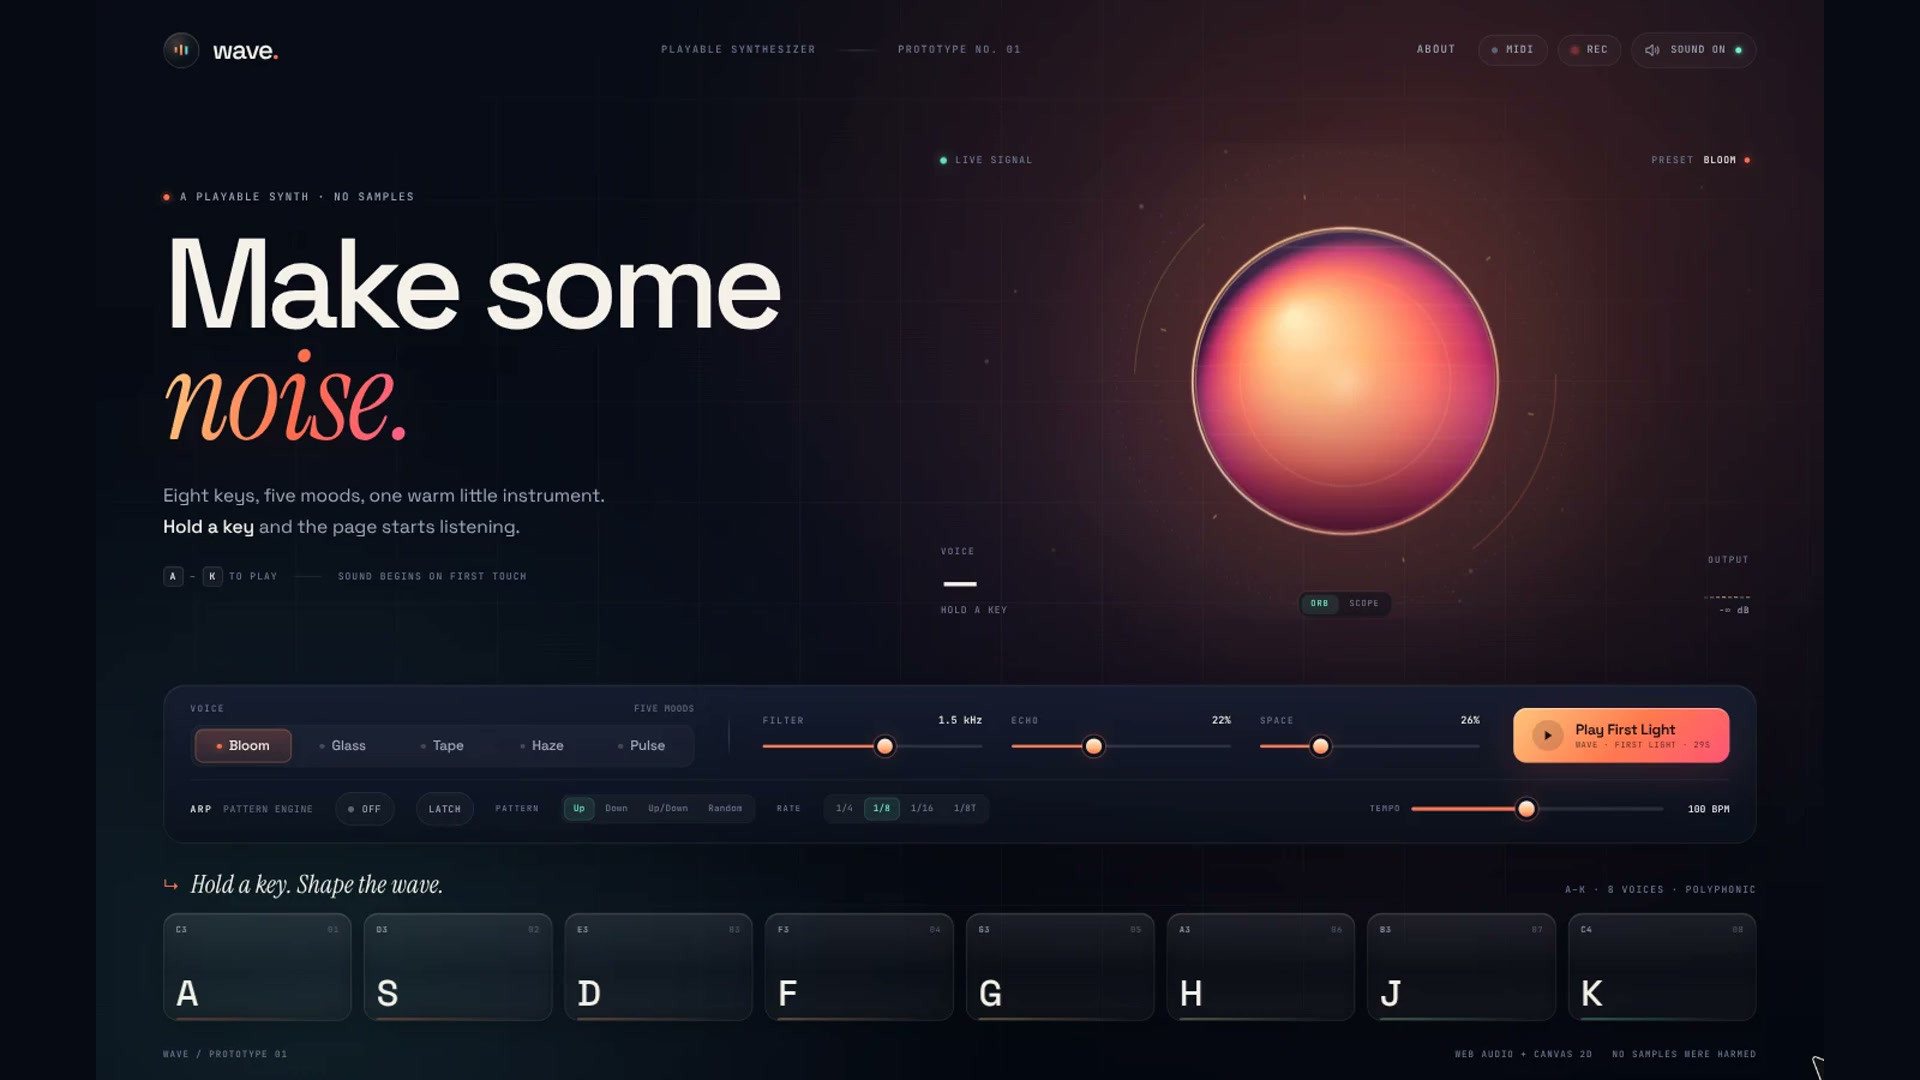
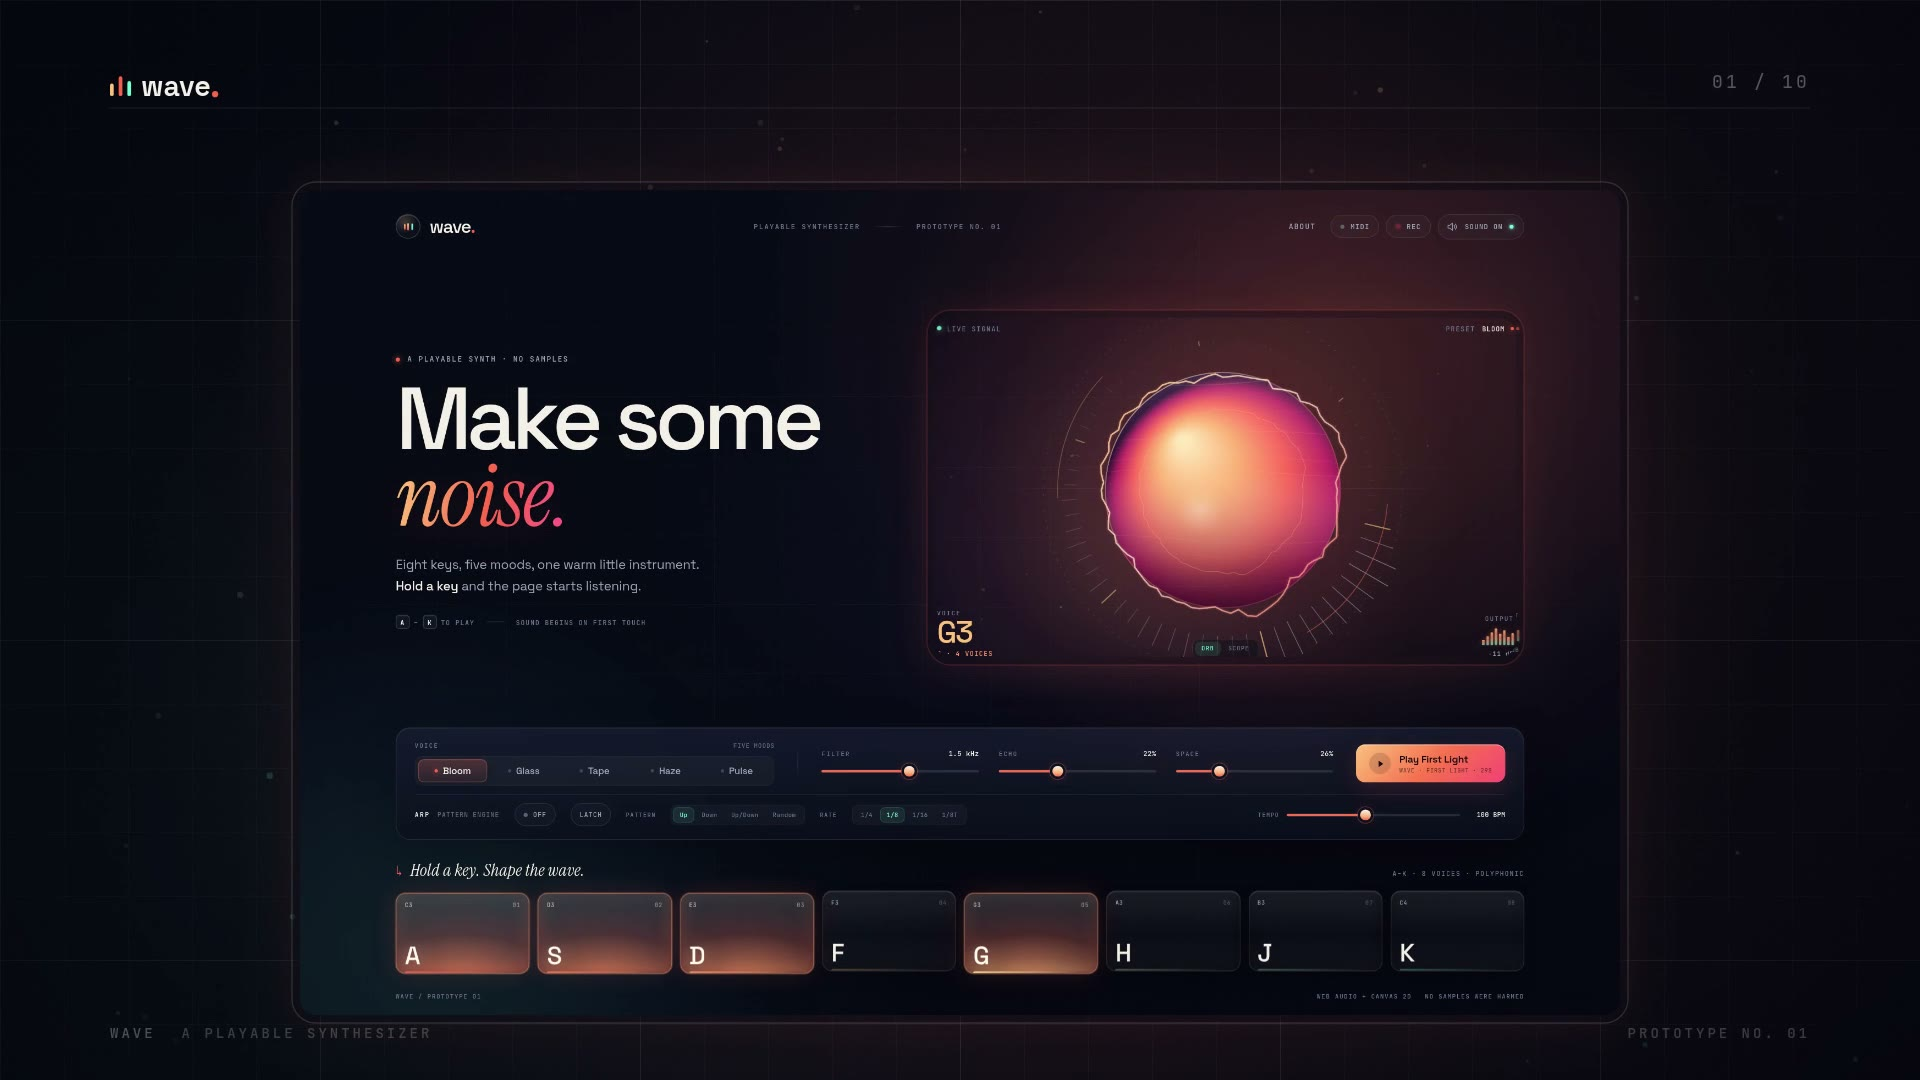
docs: switch the explainer to Kokoro af_heart

diff --git a/docs/explainer/script.md b/docs/explainer/script.md
@@ -1,6 +1,6 @@
 # Wave: the playable synth, explained
 
-A 3:15 animated explainer for the Wave prototype. 1920 × 1080, 30 fps,
+A 3:20 animated explainer for the Wave prototype. 1920 × 1080, 30 fps,
 stereo.
 
 - **Watch:** the inline player in the [repository README](../../README.md)
@@ -19,15 +19,15 @@ a single idea carried from start to finish.
 | Time | Chapter | On screen |
 | --- | --- | --- |
 | 0:01 | Cold open | The wordmark, three claims, then the live page. The stage lifts out of the page as a match cut. |
-| 0:22 | The signal | Two crossed-out cards (a video loop, a fake spectrum) give way to the real stage and a live analyser trace. |
-| 0:39 | One voice | The A key, three oscillators converging on one voice, the ADSR envelope, and eight voice meters. |
-| 1:04 | The shared chain | Voice to bus to filter to soft clip, compressor, analyser, mute and out. Delay and reverb sit in a send rack. |
-| 1:28 | The quiet trick | The mute switch sits after the analyser. The speakers go silent, the stage keeps breathing. |
-| 1:43 | Two views | Waveform ring, spectrum ticks, and three springs settling under the actual stage. |
-| 2:05 | The clock | Arp steps, a 120 ms lookahead window, a magnified scheduler, and the real timeout constants. |
-| 2:21 | First Light is data | Every note event in the cue, the filter ride, and the moment the player takes the filter back. |
-| 2:37 | Five moods | Five orbs, one engine, five motion signatures: breathes, shimmers, drags, drifts, snaps. |
-| 2:55 | A small instrument | The numbers, the stack, and the end card. |
+| 0:23 | The signal | Two crossed-out cards (a video loop, a fake spectrum) give way to the real stage and a live analyser trace. |
+| 0:42 | One voice | The A key, three oscillators converging on one voice, the ADSR envelope, and eight voice meters. |
+| 1:08 | The shared chain | Voice to bus to filter to soft clip, compressor, analyser, mute and out. Delay and reverb sit in a send rack. |
+| 1:32 | The quiet trick | The mute switch sits after the analyser. The speakers go silent, the stage keeps breathing. |
+| 1:48 | Two views | Waveform ring, spectrum ticks, and three springs settling under the actual stage. |
+| 2:09 | The clock | Arp steps, a 120 ms lookahead window, a magnified scheduler, and the real timeout constants. |
+| 2:27 | First Light is data | Every note event in the cue, the filter ride, and the moment the player takes the filter back. |
+| 2:43 | Five moods | Five orbs, one engine, five motion signatures: breathes, shimmers, drags, drifts, snaps. |
+| 3:00 | A small instrument | The numbers, the stack, and the end card. |
 
 ## Narration
 
@@ -38,14 +38,14 @@ a single idea carried from start to finish.
 > a synthesizer that lives entirely in the browser. And everything you're about
 > to see is drawn from the sound it makes.
 
-### 0:22 · The signal
+### 0:23 · The signal
 
 > There is no waveform video playing on a loop. No pre-rendered spectrum. The
 > orb on the stage is reading the actual audio signal, sixty times a second,
 > and painting what it finds. The page isn't illustrating sound. It's listening
 > to it.
 
-### 0:39 · One voice
+### 0:42 · One voice
 
 > Follow one key press. You hold the A key, and a voice wakes up. Three
 > oscillators: a saw, a triangle, a sine, tuned slightly apart so they shimmer
@@ -53,7 +53,7 @@ a single idea carried from start to finish.
 > sustain, and a long release when you let go. Eight voices like this one can
 > run at once.
 
-### 1:04 · The shared chain
+### 1:08 · The shared chain
 
 > They all feed one shared chain. A resonant low-pass filter. A stereo
 > ping-pong delay, and a convolution reverb built from a generated impulse
@@ -61,38 +61,38 @@ a single idea carried from start to finish.
 > turns into a mess. At the end, an analyser takes a copy of the signal for the
 > stage.
 
-### 1:28 · The quiet trick
+### 1:32 · The quiet trick
 
 > Notice where the mute switch sits. After the analyser. So when you turn the
 > sound off, the speakers go quiet, but the instrument keeps breathing on
 > screen. The visuals never lie, even in silence.
 
-### 1:43 · Two views
+### 1:48 · Two views
 
 > The orb reads two views of the same signal. The time domain, a waveform
 > wrapped into a ring. And the frequency domain, a spray of ticks for the
 > energy in each band. Springs smooth the level, the bass and the treble, so
 > the motion has weight. It settles, instead of twitching.
 
-### 2:05 · The clock
+### 2:09 · The clock
 
 > Time is the other instrument. The arpeggiator doesn't trust the page clock.
 > It looks a hundred and twenty milliseconds ahead, and schedules real notes on
 > the audio clock, so the pattern stays steady even when the drawing gets busy.
 
-### 2:21 · First Light is data
+### 2:27 · First Light is data
 
 > And the demo, First Light, isn't a recording either. It's a list of note
 > events, played through the same voices you play by hand. The filter rides the
 > arrangement. The moment you touch it, control comes back to you.
 
-### 2:37 · Five moods
+### 2:43 · Five moods
 
 > Five presets reshape the oscillators, the filter, the envelope, the delay and
 > the space. Each one also gets its own way of moving. Glass shimmers. Tape
 > drags. Haze drifts. Pulse snaps. Bloom breathes.
 
-### 2:55 · A small instrument
+### 3:00 · A small instrument
 
 > All of it is TypeScript, Canvas and the Web Audio API. No audio files, no
 > runtime libraries, no backend. Just a small instrument, with a page wrapped
@@ -100,25 +100,26 @@ a single idea carried from start to finish.
 
 ## How it was made
 
-- **Format:** 1920 × 1080, 30 fps, 5,854 frames, 3:15.1, H.264 High with AAC
+- **Format:** 1920 × 1080, 30 fps, 6,024 frames, 3:20.8, H.264 High with AAC
   stereo at 48 kHz.
 - **Visuals:** the real app was captured at 1600 × 1000, then the stage and
   keybed crops were used inside a deterministic Canvas 2D renderer. The
   diagrams, type, springs, piano roll and match cuts are drawn per frame, not
   edited from stock footage. Frames were encoded in Chromium with WebCodecs
   (VP9) and mastered to H.264.
-- **Narration:** a synthetic neural voice, generated sentence by sentence. The
-  scene timings are driven by those sentence durations, so the diagrams land on
-  the words.
-- **Music:** *First Light* and a sustained Haze pad were recorded from the
-  prototype's master bus, then arranged under the narration with gentle
-  sidechain ducking. The Haze pad is crossfaded into a seamless loop.
-- **Loudness:** -16.0 LUFS integrated, true peak -3.4 dBTP.
+- **Narration:** Kokoro 82M with the `af_heart` voice at speed 0.88, generated
+  sentence by sentence. The scene timings are driven by those sentence
+  durations, so the diagrams land on the words.
+- **Music:** the house *midnight tech* score at 100 BPM in A major, seed 1,
+  rendered locally and trimmed to the film, then arranged under the narration
+  with gentle sidechain ducking. It is original, deterministic and MIT licensed.
+- **Loudness:** -16.0 LUFS integrated, true peak -1.7 dBTP.
 - **Scope:** the explainer is a separate production. The app itself still has
   no runtime dependencies and no audio files.
 
 ## Credits
 
 - Wave prototype and *First Light*: Jim Merioles.
-- Narration: synthetic neural voice, generated for this explainer.
+- Narration: Kokoro 82M `af_heart` (Apache 2.0), generated for this explainer.
+- House score: *midnight tech*, MIT, Vincent Schmalbach.
 - Visuals, edit and mix: produced for the Wave prototype.

diff --git a/docs/explainer/README.md b/docs/explainer/README.md
@@ -1,9 +1,9 @@
 # Wave explainer
 
-A 3:15 animated explainer for the Wave prototype.
+A 3:20 animated explainer for the Wave prototype.
 
 - **Watch:** the inline player in the [repository README](../../README.md). The full 1080p file is on the [explainer release page](https://github.com/jimmerioles/wave/releases/tag/explainer).
-- `wave-explainer-poster.jpg`: opening frame, 1920 × 1080.
+- `wave-explainer-poster.jpg`: 1920 × 1080 poster.
 - `script.md`: chapter timestamps, full narration, shot notes, credits.
 
 The film is a standalone production. It is not loaded by the app and adds no
@@ -13,8 +13,10 @@ runtime dependencies to the prototype.
 
 The renderer is a deterministic Canvas 2D scene driven by a sentence-level
 timeline. Frames were encoded with WebCodecs in Chromium, then mastered with
-FFmpeg. The music is captured from the prototype itself: *First Light* and a
-sustained Haze pad, both recorded from the master bus before the mute switch.
+FFmpeg. The narration is Kokoro 82M `af_heart` at speed 0.88. The score is the
+house *midnight tech* cue at 100 BPM in A major, rendered locally and trimmed to
+the film.
 
-If you change the narration, regenerate the sentence timings first, then rebuild
-the music bed and the video. The diagrams use those timings for every reveal.
+If you change the narration, regenerate the sentence timings first, then re-trim
+the music bed and rebuild the video. The diagrams use those timings for every
+reveal.

diff --git a/README.md b/README.md
@@ -10,11 +10,11 @@ The demo button plays *First Light*, an original 12-bar cue composed for Wave:
 a quiet chord, an arpeggio, a hook, one hanging high note and a final chord, all
 scheduled through the same eight-voice instrument you play by hand.
 
-https://github.com/user-attachments/assets/ff340c1b-e8b3-4337-98dd-3f45c68eaf0a
+https://github.com/user-attachments/assets/74e3ff18-87f2-49a4-b6a1-e99b7f78069e
 
-A 3:15 animated walkthrough of how Wave works, narrated and scored with the
-prototype's own *First Light* cue. If the player starts muted, use the volume
-control to hear the narration.
+A 3:20 animated walkthrough of how Wave works, narrated with the Kokoro
+`af_heart` voice and scored with the house *midnight tech* cue. If the player
+starts muted, use the volume control to hear the narration.
 
 The [companion script](docs/explainer/script.md) has the full narration, chapter
 timestamps and shot notes.
